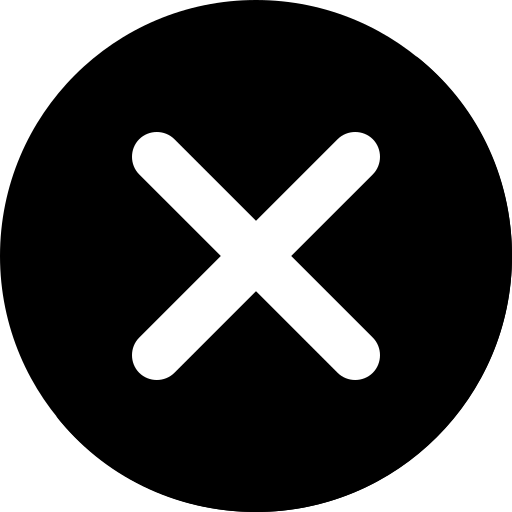
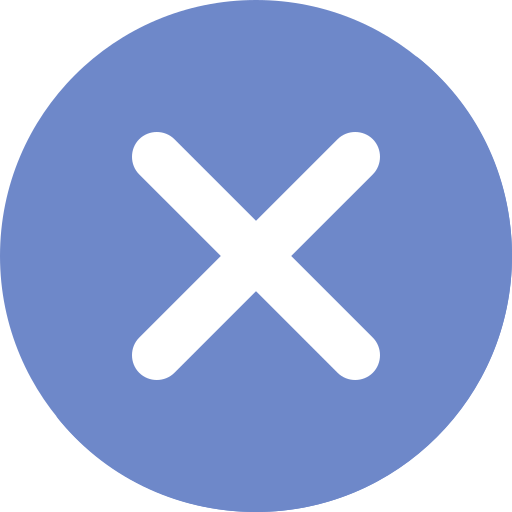
changed images

diff --git a/src/components/Teacher/Dashboard/index.jsx b/src/components/Teacher/Dashboard/index.jsx
@@ -85,7 +85,7 @@ const useStyles = makeStyles((theme) => ({
     boxShadow: '0 2px 4px rgba(0, 0, 0, 0.1)',
   },
   today: {
-    backgroundColor: '#000',
+    backgroundColor: '#6E88C9',
     color: '#fff',
   },
   classItem: {
